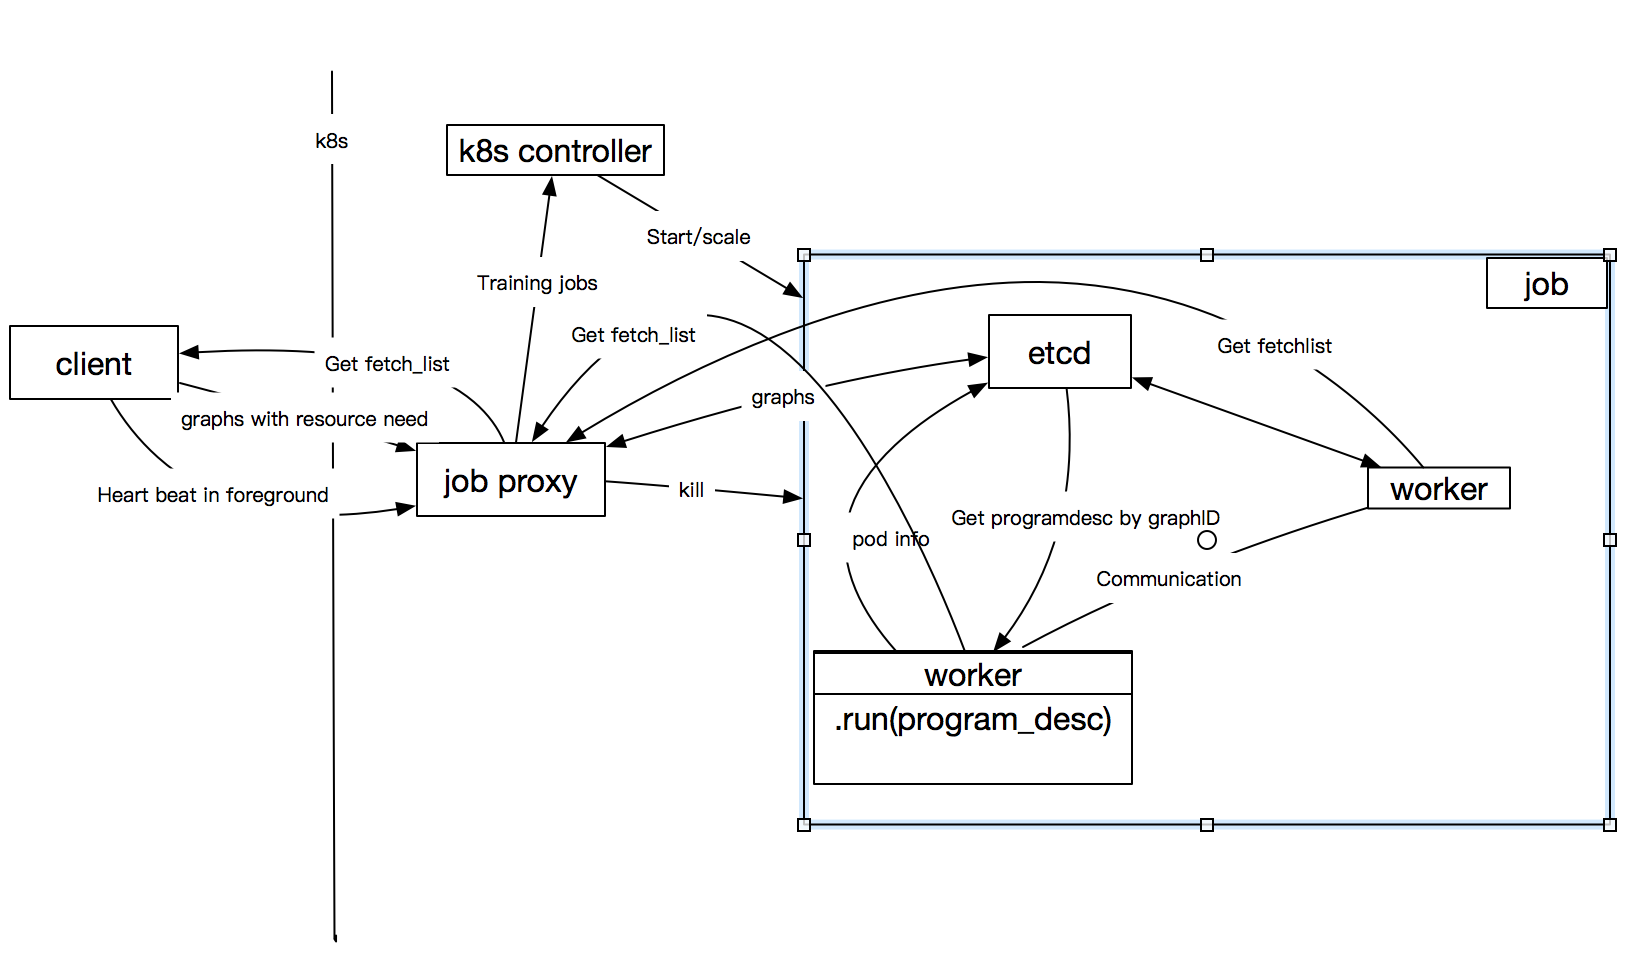
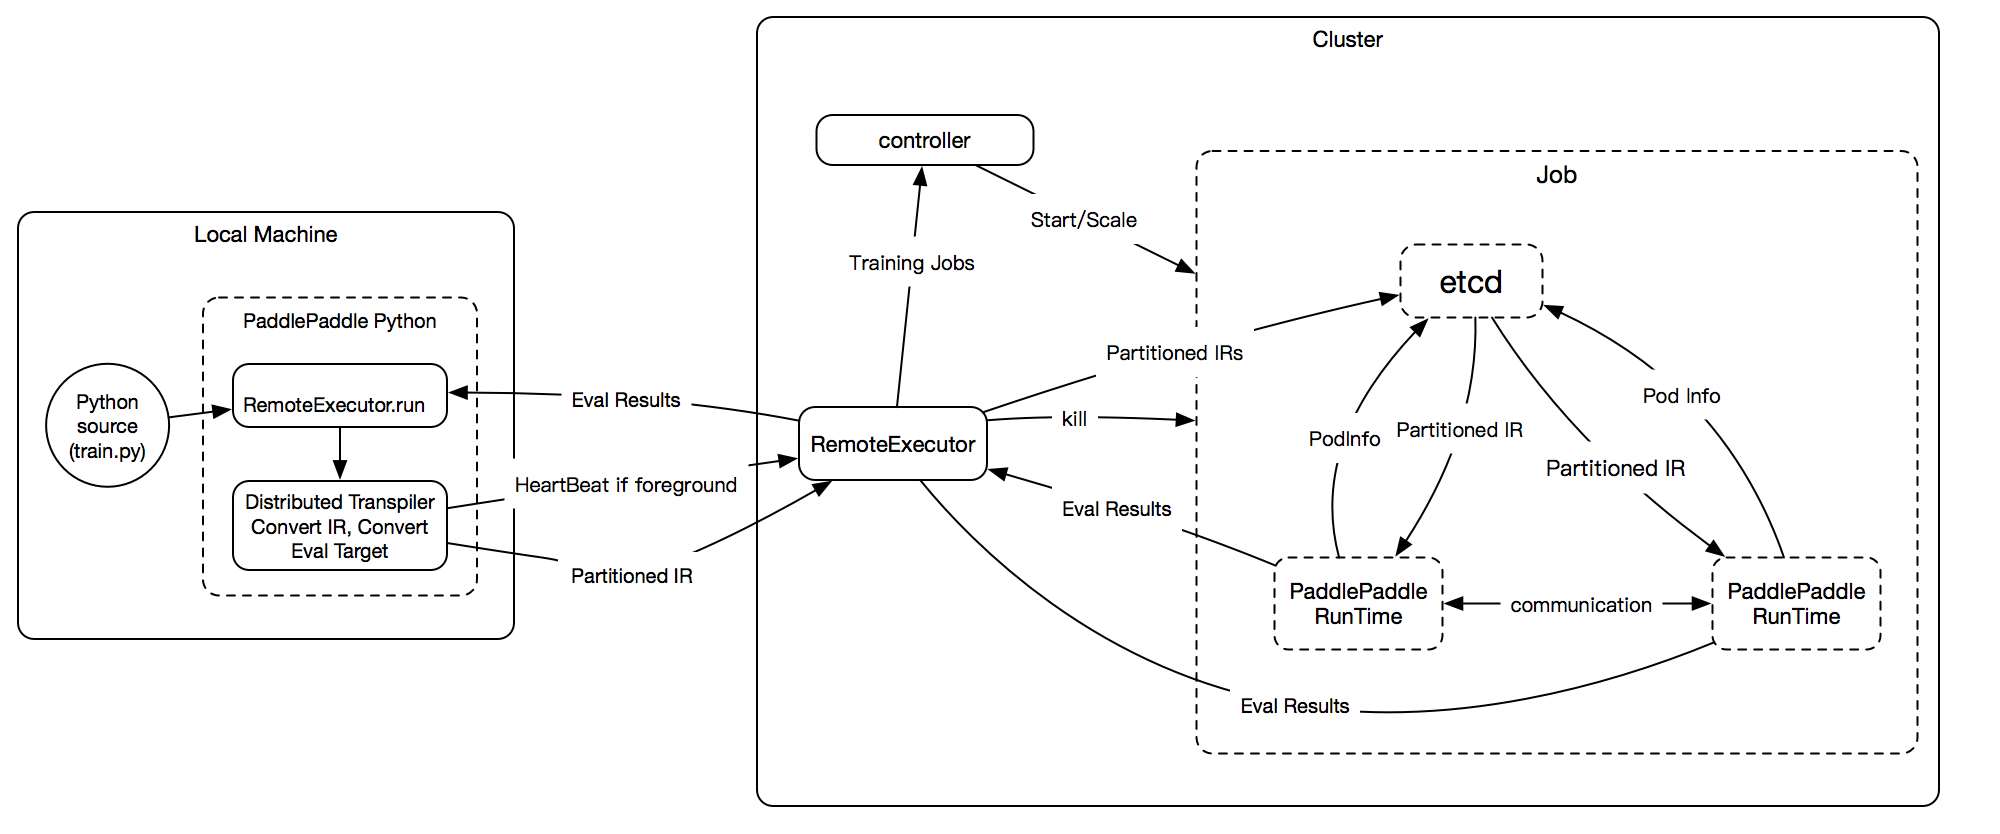
fix graph to IR

diff --git a/doc/design/dist_refactor/remoet_executor.md b/doc/design/dist_refactor/remoet_executor.md
@@ -1,94 +1,96 @@
-## Workflow
-All modules are decoupled when we store data to storage.
+## Abstract
+We propose some details to implement 	`RemoteExecutor`:
 
-- Transpile program desc to sub-program descs(graphs) and
-- Store graphs to etcd
-	- one graph has unique ID. 
-	- one graph has the desired resource.
-- Start worker(pod) to run one graph
-   - worker stores pod info to etcd, so 
-   - the graphs can communicate with each other by graphID.
+- Each `Partitioned IR(intermediate representation)` has unique `IRID`.
+- We store `Partitioned IR` with their relationship and resource need into etcd.
+- Each `PaddlePaddle Runtime` runs `Partitioned IR` getted from etcd by `IRID`. 
+- The executed `Partitioned IR` can communicate with each other by `IRID` even if some of them aborted unnormally.
 
 ## Architect graph
 <div style="align: center">
-<img src="src/arch2.png" width="700" align=center/>
+<img src="src/remote_executor2.png" width="700" align=center/>
 </div>
 
 - foreground job: when the client exits the jobs will be killed.
+	-  It's convenient for user to debug theire program.
+	-  It needs a `HeartBeat` to `RemoteExecutor` to report that client is living.OtherWise,the `RemoteExecutor` will kill the job.
 - background job: client's death doesn't affect the job.
 
 ## Peudo code of users
 ```
+import RemoteExecutor as remotor
 ...
-# get graphs and their relation.
+# get IRs and their relation.
 # the trainers iteration is implemented by fluid op.
-t_graphs,p_graphs = fluid.dist_transpiler(tainers_num=,tainer_pass_num=,pserves_num=,mode=sync)
+trainer_IR,pserver_IR = fluid.dist_transpiler(tainers_num=,tainer_pass_num=,pserves_num=,mode=sync)
 
 job_name = "test_1"
 
 # you can kill  a job first.
-#if fluid.k8s.find(job_name):
-#	fluid.k8s.kill(job_name)
+#if remotor.find(job_name):
+#	remotor.kill(job_name)
 
 # start etcd and keep heart-beat if need.
-job, err = fulid.k8s.init_job(job_name, run_type=foreground)
+job, err = remotor.init_job(job_name, type=foreground)
 if err is not null:
    print "start job:", job_name, " errors:", err
    sys.exit(1)
    
-# store graphs to etcd.
-trainers = job.add_workers(t_graphs,cpu=,gpu=,mem)
-pservers = job.add_workers(p_graphs,cpu=,gpu=,mem)
+# store IRs with resource need to etcd.
+trainers = job.add_workers(trainer_IR,cpu=,gpu=,mem=)
+pservers = job.add_workers(pserver_IR,cpu=,gpu=,mem=)
 
 # start trainers and pserver pods.
 # pod info will be stored to etcd after pod start.
 pserver.start()
 trainer.start()
 
-# get fetchlist from trainers.
-accs = trainers.get(acc)
-for c in acc:
-    print(" acc:" + str(c))
+# get results from trainers or others.
+while True:
+	accs = trainers.get(acc)
+	for c in acc:
+	    print(" acc:" + str(c))
+	# exits?
 
 jobs.stop()
 ```
 
 
-## Data base 
+## Storage 
 - etcd is a key-value storage, but we can convert a table to key-value style easily by use combination key.
 - We store info in multiple tables because some of them may be changed more frequently than others.
 
-### Table: graph_program_desc
+### Table: IR_Resource
 
 | column name | description|
 |----------|-------------|
-| graphID |  ID of graph, key    |
-| program_desc| program desc to be executed    |
-| send_var_graph_map|map of variable and graphID|
-| recv_var_graph_map|map of variable and graphID|
-|resource|resource needed by this graph|
+| IRID |  unique ID of IR    |
+| IR| `ProgramDesc`    |
+| send_var_IR_map|map of variable and IRID which will be sended|
+| get_var_IR_map|map of variable and IRID which will be getted|
+|resource|resource needed by this IR|
 
-### Table: graph_pod
-may be changed
+### Table: IR_Pod
+Table maybe changed since some pods maybe dead.
 
 | column name | description|
 |----------|-------------|
-|graphID|ID of graph|
-|pod_name|pod name which executes graph|
+|IRID|unique ID of IR|
+|pod_name|pod name which executes IR|
 |pod_ip|pod ip|
-|pod_port|pod port exported|
+|pod_port|pod port|
 
-### Table: graph_output
+### Table: IR_CheckPoints
 | column name | description|
 |----------|-------------|
-|graphID|ID of graph|
-|checkpoint|last checkpoint of this graph|
+|IRID|unique ID of IR|
+|checkpoint|last checkpoint of this IR|
 
 
 ## Fault tolerant
-Workers can communicate with others correctly by graphID.
+IR's Executor can communicate with others correctly by IRID.
 
--  When send/recv meets error or timeout,workers should get new graphs' relation from etcd and retry again.
+-  When send/get meets error or timeout,workers should get new IR's relation from etcd and retry again.
 - Trainers 
 	- When a trainer starts, it should determine to initialize parameter from pserver or from the startup_program_desc. 
 - Pservers 
@@ -96,3 +98,6 @@ Workers can communicate with others correctly by graphID.
 
 ## Auto scaling
 TODO
+
+## Reference
+[Design Doc: Distributed Training Architecture](https://github.com/PaddlePaddle/Paddle/blob/develop/doc/design/dist_refactor/distributed_architecture.md)
